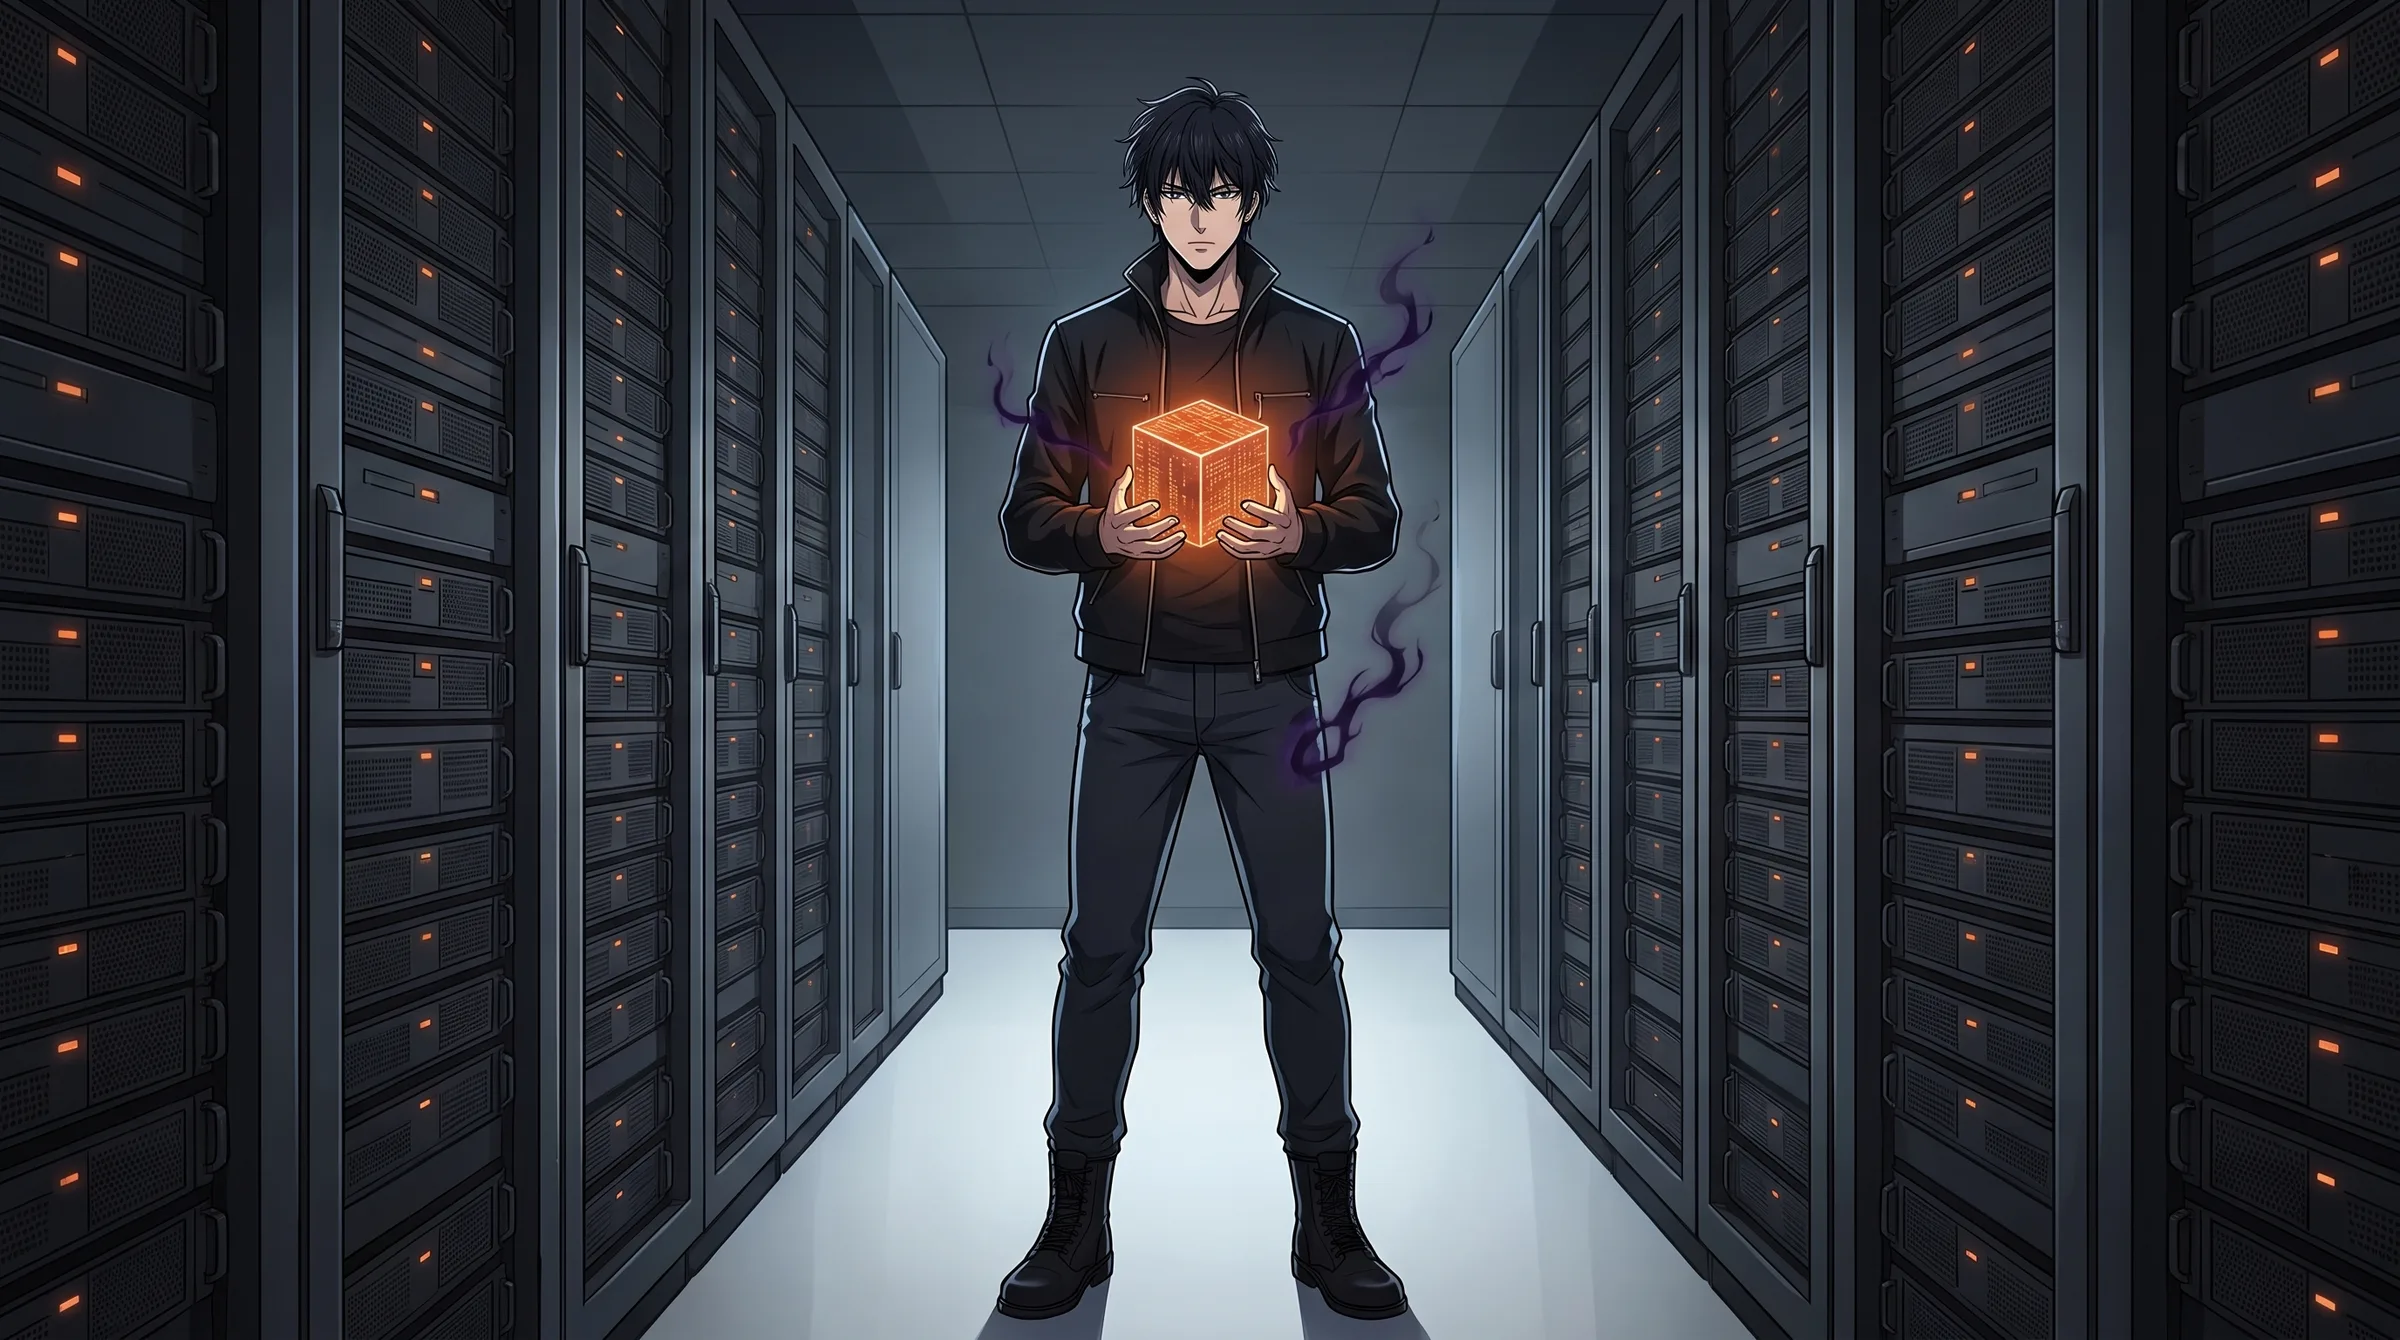
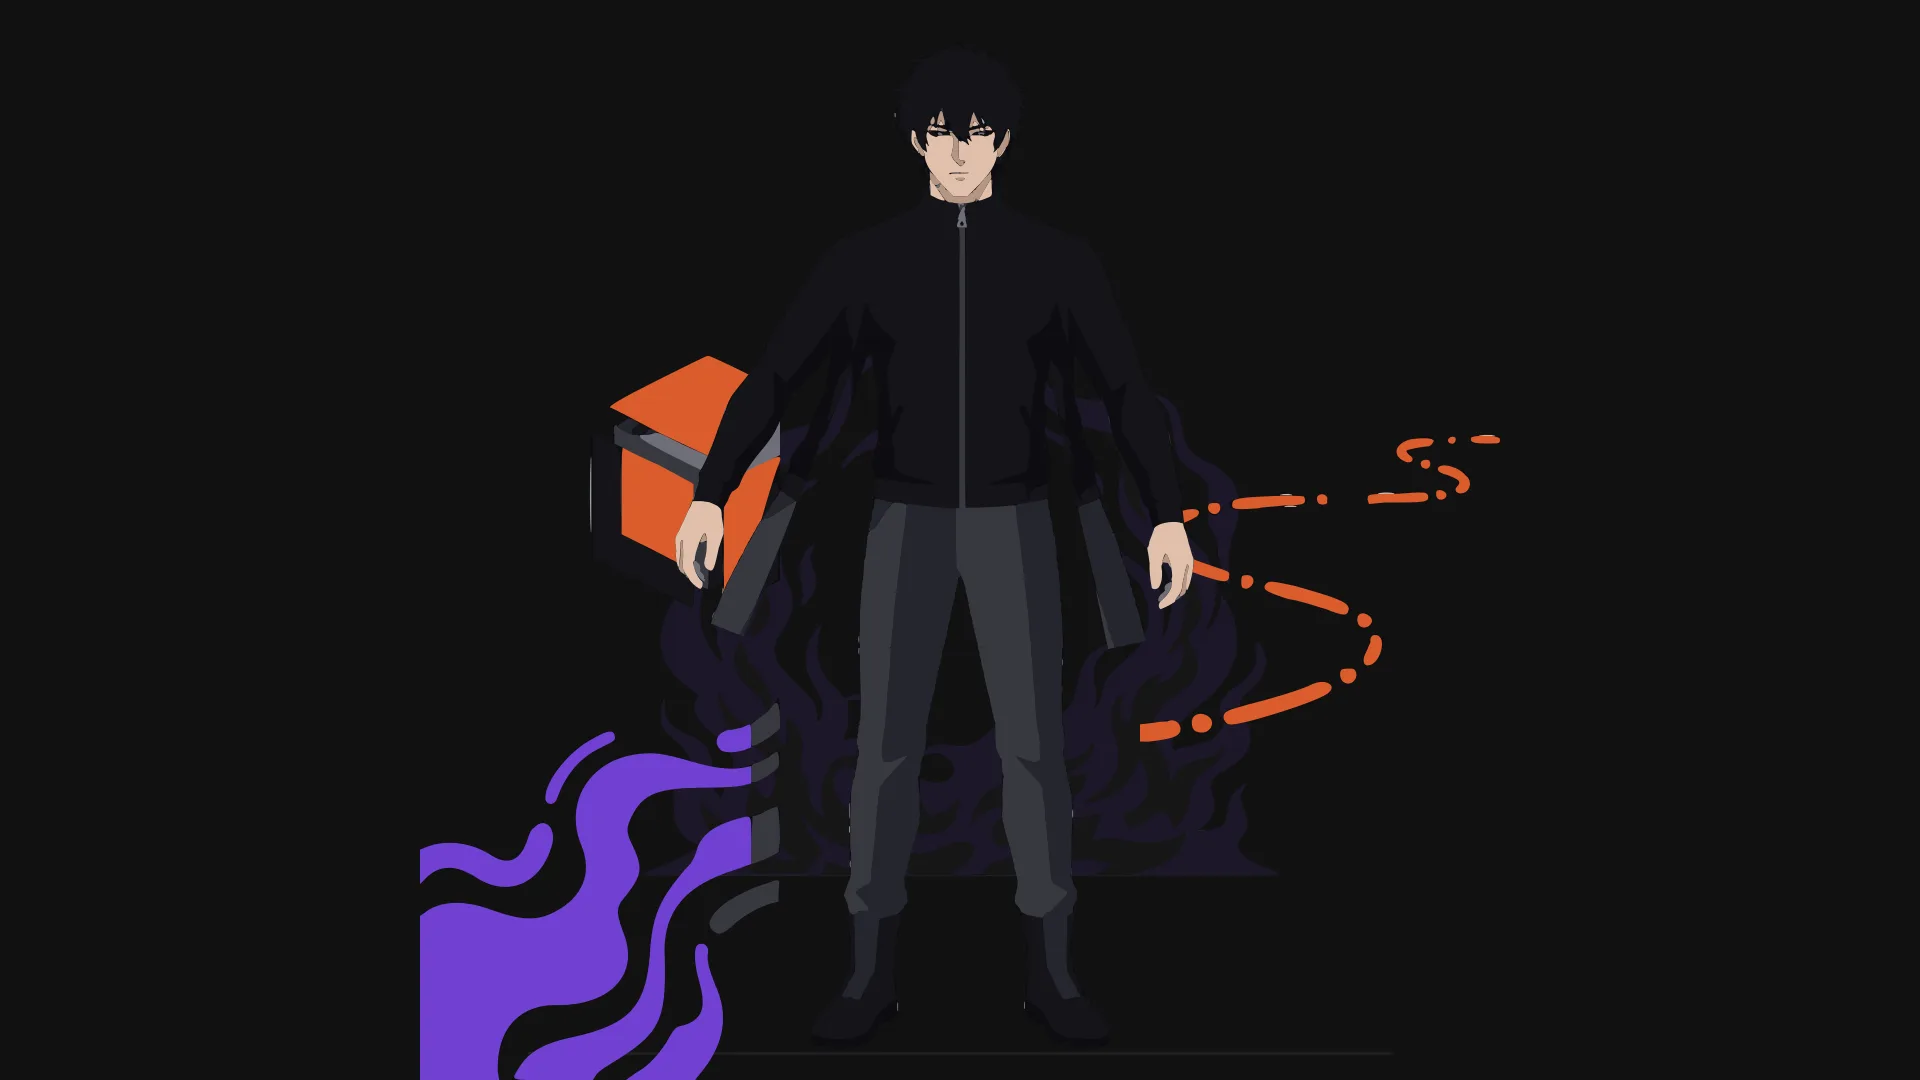
journey: the timeline's pictures are composites rendered from the scene

diff --git a/src/data/journeyArt.ts b/src/data/journeyArt.ts
@@ -20,35 +20,36 @@ export const stageArt: Readonly<Record<string, StageArt>> = {
   "t1-support": {
     still: t1Support,
     subject:
-      "an anime systems engineer in a black hoodie and headset on a night shift at a support desk, lit by orange monitors",
+      "a flat vector engineer in a black hoodie and headset standing at a support desk between two orange-lit monitors",
   },
   "web-concierge": {
     still: webConcierge,
     subject:
-      "the same engineer at a standing desk, arranging a floating website wireframe above his laptop",
+      "a flat vector engineer in a hoodie, sleeves pushed up, one hand raised to floating website wireframe panels",
   },
   "professional-services": {
     still: professionalServices,
-    subject: "the same engineer between two rows of servers, holding a glowing orange cube of data",
+    subject:
+      "a flat vector engineer in a black zip jacket holding out a glowing orange data cube beside a path of small lights",
   },
   "t3-support": {
     still: t3Support,
     subject:
-      "the same engineer standing calm before a wall of orange alert lights, shadows rising at his feet",
+      "a flat vector engineer in a high-collar jacket standing calm before a wall of orange alert lights, violet shadows at his feet",
   },
   sysadmin: {
     still: sysadmin,
     subject:
-      "the same engineer in a short black coat beside an open server rack, violet smoke curling at his feet",
+      "a flat vector engineer in a short black coat beside an open server rack, violet smoke along the floor",
   },
   "linux-engineer": {
     still: linuxEngineer,
     subject:
-      "the same engineer in a long black coat conducting a pipeline of floating modules while violet shadow hands assemble them",
+      "a flat vector engineer in a long black coat conducting a pipeline of floating modules while violet shadow hands reach in",
   },
   "systems-architect": {
     still: systemsArchitect,
     subject:
-      "the same engineer in a long open coat in a datacenter aisle, rows of server racks and violet shadow energy around him",
+      "a flat vector engineer in a long open coat with orange cuffs before rows of violet shadow server racks, a violet aura around him",
   },
 };

diff --git a/test/journeyArt.test.ts b/test/journeyArt.test.ts
@@ -17,4 +17,11 @@ describe("journey art", () => {
     const art = await import("../src/data/journeyArt");
     expect(Object.keys(art).sort()).toEqual(["stageArt"]);
   });
+
+  it("describes each rank's picture as the flat vector composite it now is", () => {
+    for (const stage of career) {
+      expect(stageArt[stage.id]!.subject, stage.id).toMatch(/^a flat vector /);
+      expect(stageArt[stage.id]!.still.height, stage.id).toBe(1080);
+    }
+  });
 });
